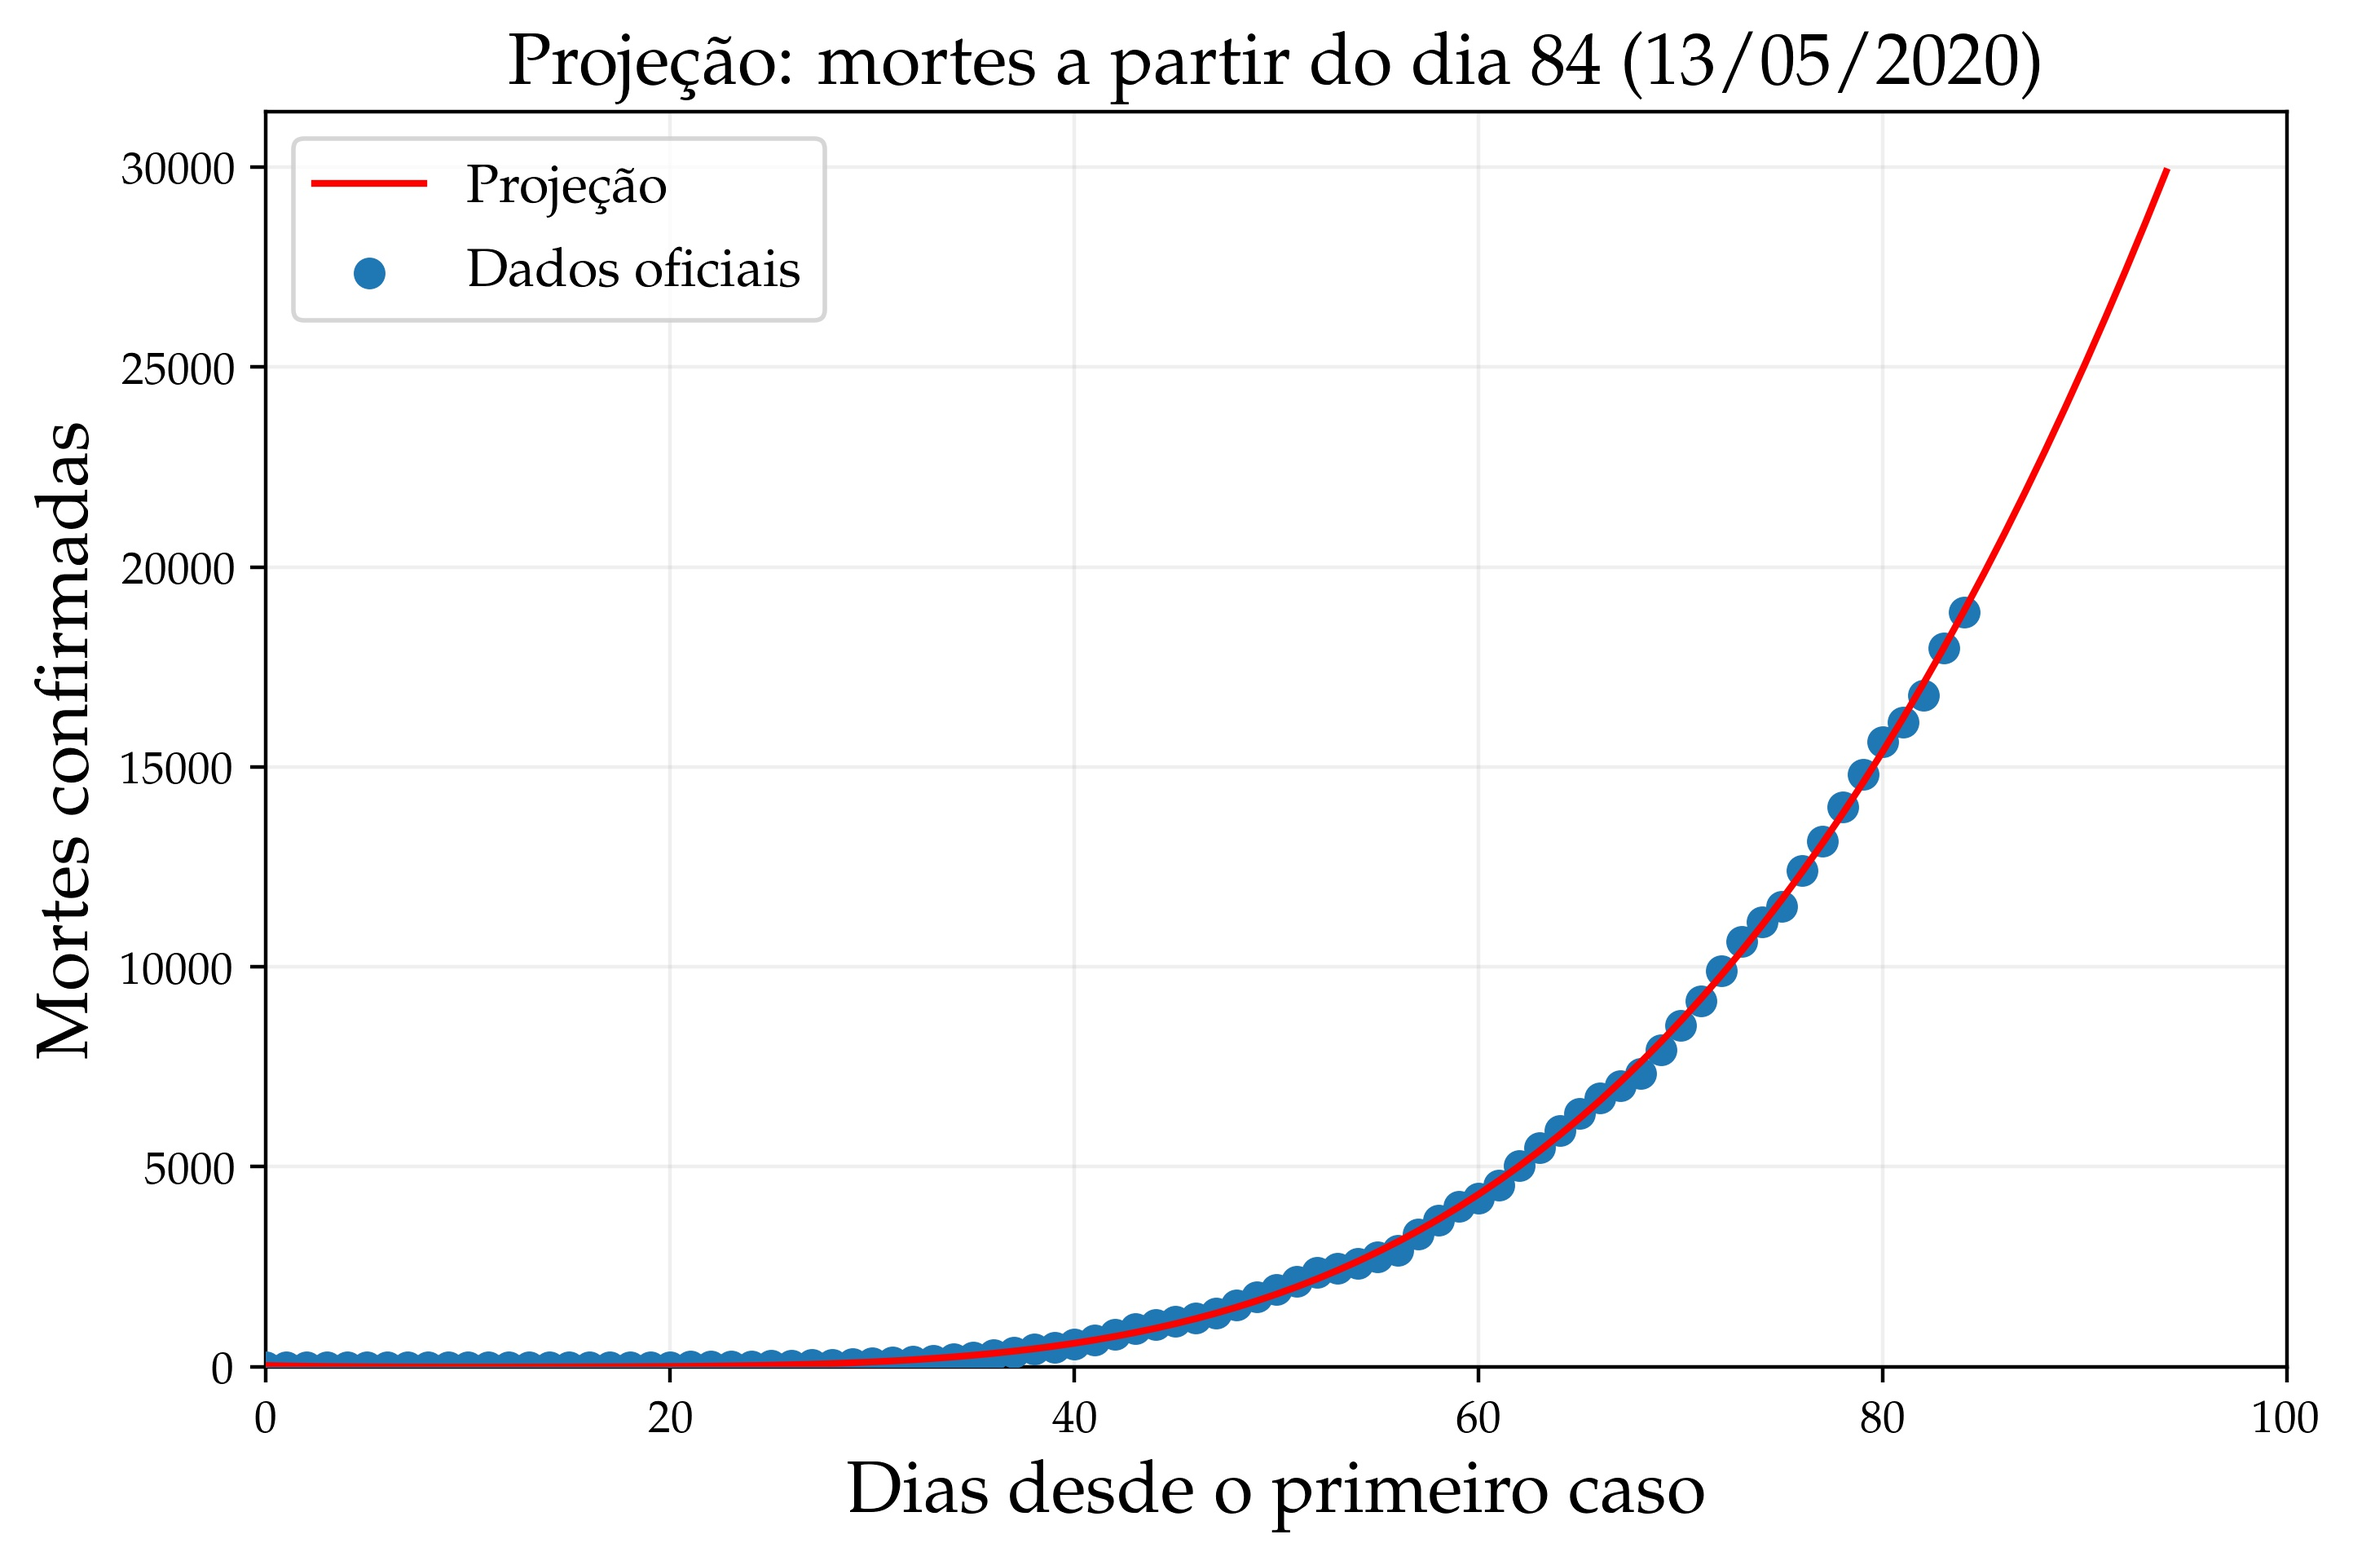
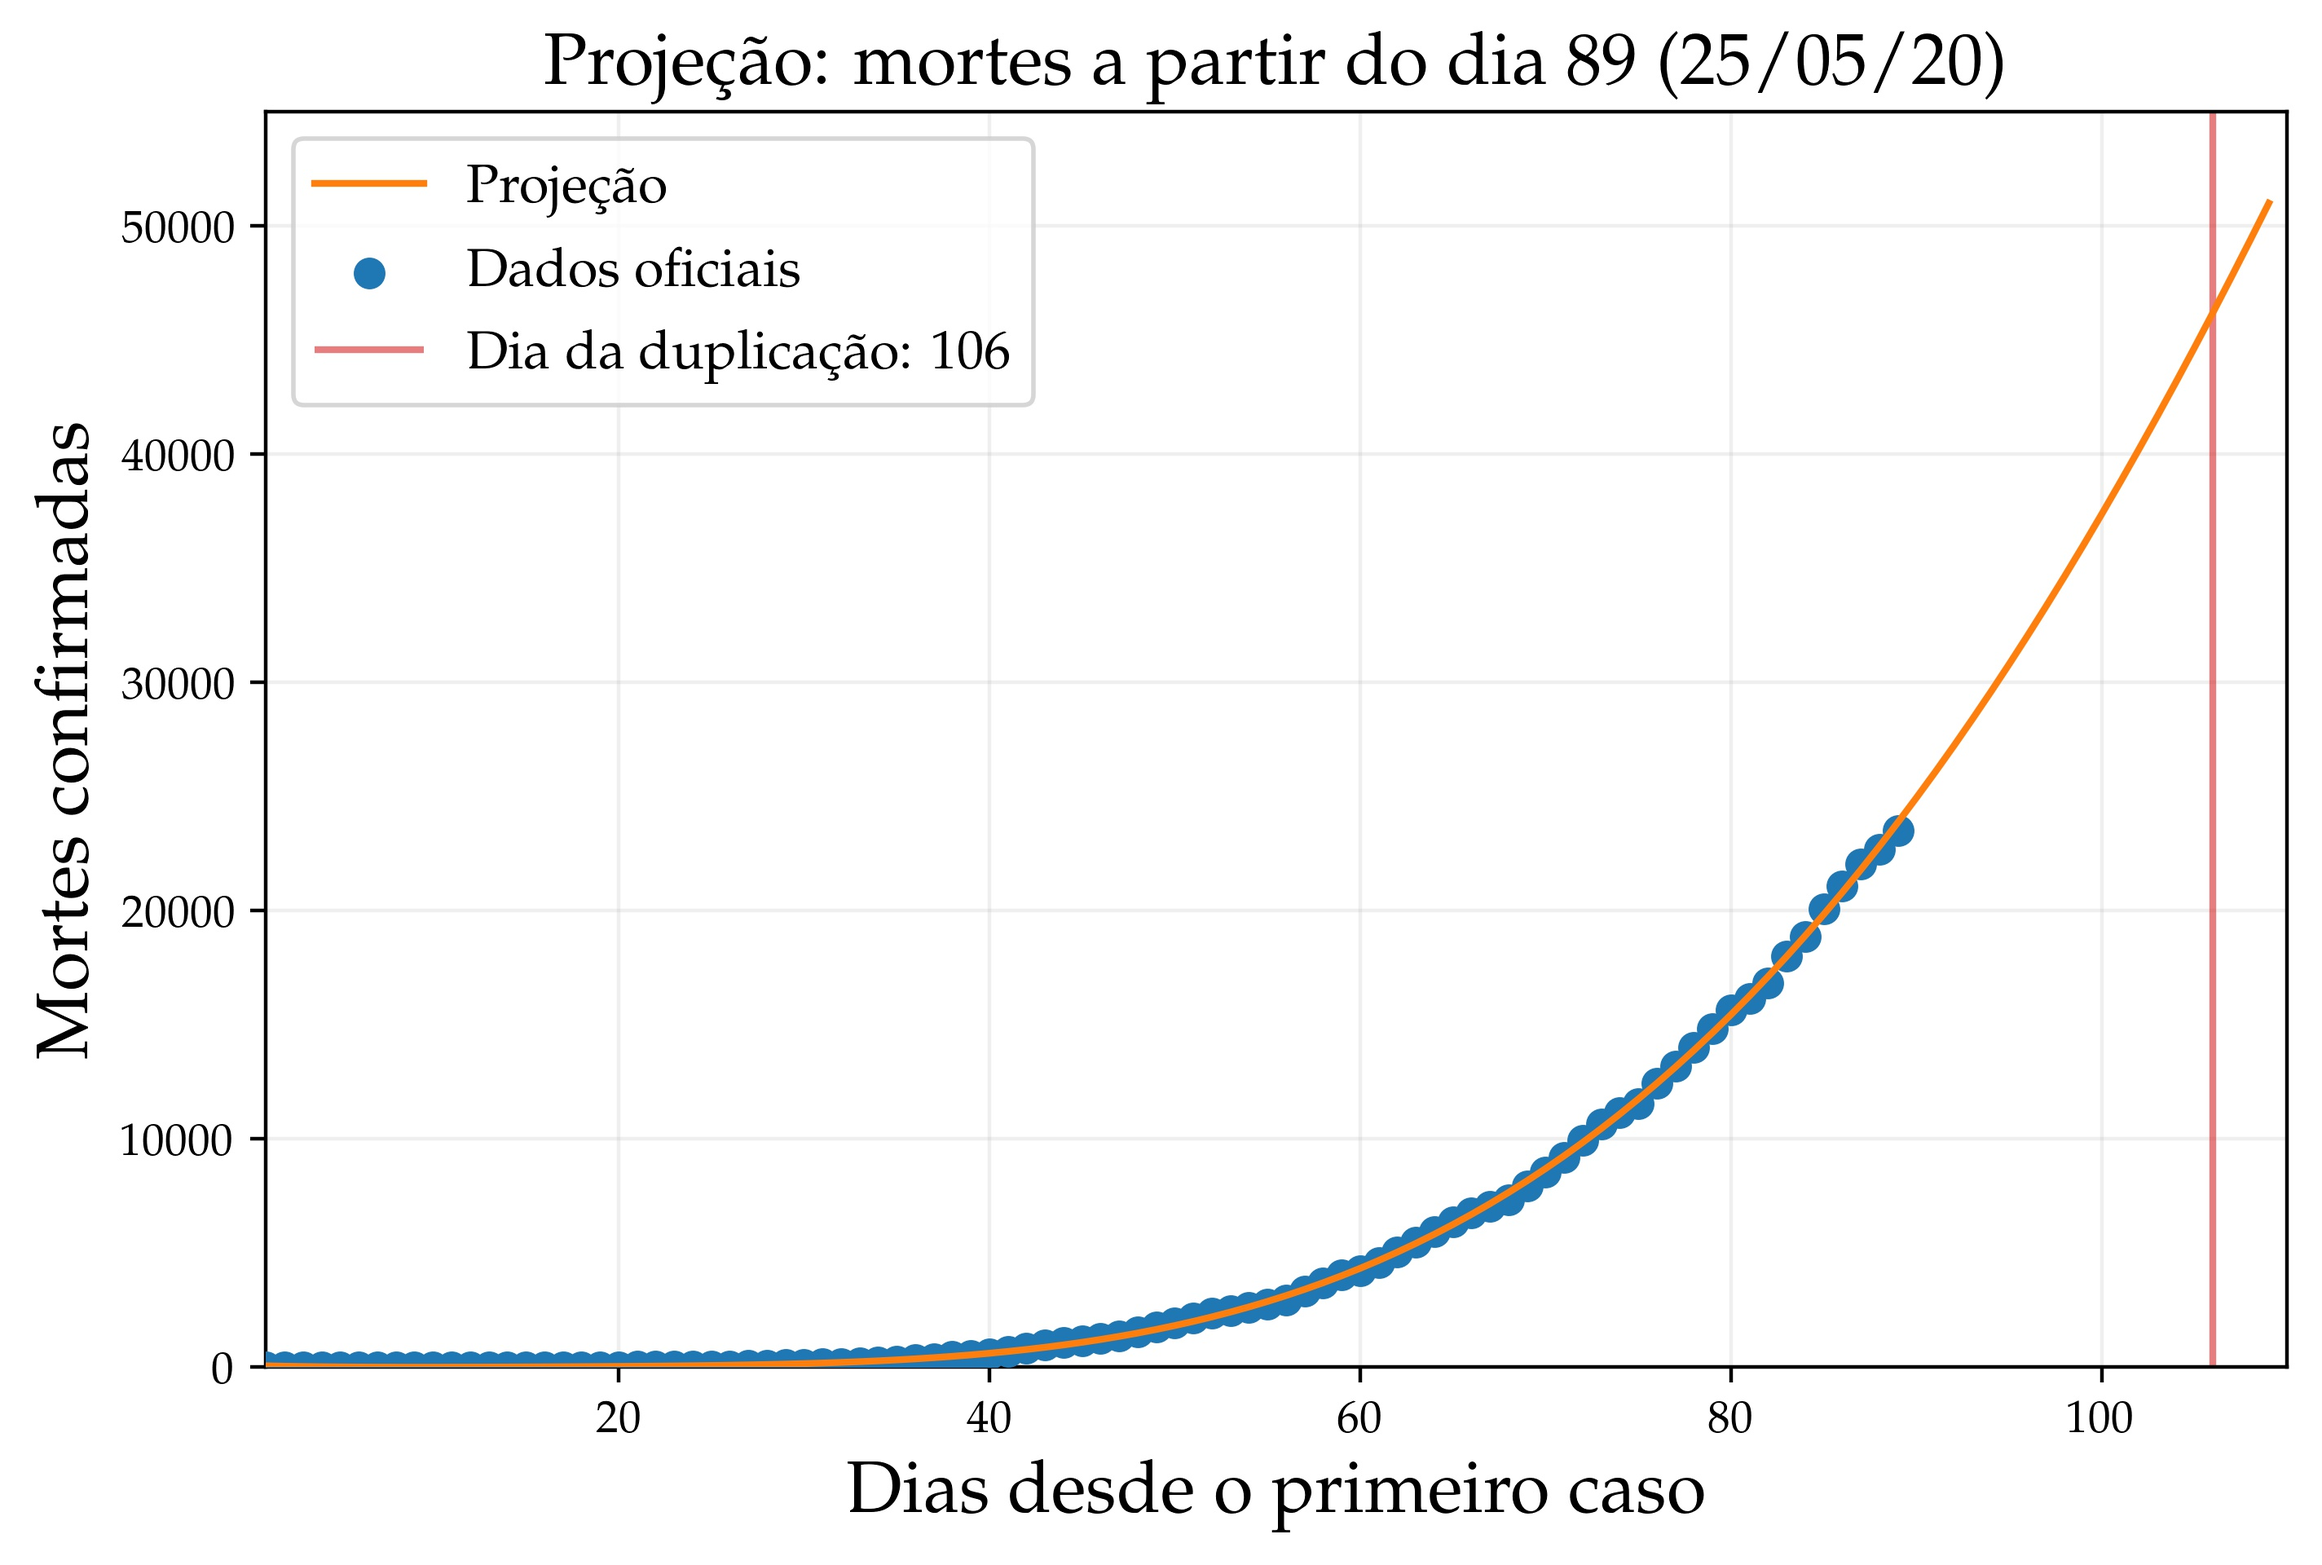
Add files via upload

diff --git a/polynomial_prediction_git.py b/polynomial_prediction_git.py
@@ -5,6 +5,7 @@ import pandas as pd
 from sklearn.linear_model import LinearRegression
 from sklearn.preprocessing import PolynomialFeatures
 from matplotlib import rc
+from datetime import datetime
 
 #TeX fonts
 # rc('font',**{'family':'sans-serif','sans-serif':['Helvetica']})
@@ -12,16 +13,16 @@ from matplotlib import rc
 rc('font',**{'family':'serif','serif':['Palatino']})
 rc('text', usetex=True)
 
-#COVID-19 BRAZIL
+#COVID-19 BRAZIL v1.1
 #by Daniel Marostica
 #github danielmarostica
 
-dias = 85
-to_predict = 10
-casos = ['10','casos']
-mortes = ['11','mortes']
-coluna = int(mortes[0])
-print('Este código faz previsão para mortes nos próximos 10 dias, usando dados de 85 dias.')
+dias = 90
+to_predict = 20
+casos = [11,'casos']
+mortes = [12,'mortes']
+coluna = mortes[0]
+print('Este código faz previsão para mortes nos próximos %i dias, usando dados de %i dias.'%(to_predict, dias))
 configurar = raw_input('Gostaria de configurar os números? (s/n) ')
 if configurar == 's':
     coluna = raw_input('Casos ou mortes? ')
@@ -31,21 +32,20 @@ else:
     pass
 
 if coluna == 'casos':
-    coluna = int(casos[0])
+    coluna = casos[0]
     coluna_str = casos[1]
 else:
-    coluna = int(mortes[0])
+    coluna = mortes[0]
     coluna_str = mortes[1]
 print('Lendo arquivo...')
 
-coluna = [coluna]
+coluna = [7, coluna]
 #----------------
 
 #altere o nome do arquivo baixado do site do ministério
-dataset = pd.read_excel('HIST_PAINEL_COVIDBR_20mai2020.xlsx', nrows=dias, usecols=coluna)
+dataset = pd.read_excel('HIST_PAINEL_COVIDBR_25mai2020.xlsx', nrows=dias, usecols=coluna)
 #extracts 2D array
-y = dataset.iloc[:, [0]].values
-
+y = dataset.iloc[:, [1]].values
 X = np.arange(0,dias)
 #converts to 2D array because fit_transform() requires it
 X = np.reshape(X,(len(X),1))
@@ -69,22 +69,44 @@ X_topredict = np.reshape(X_topredict,(len(X_topredict),1))
 
 #creates matrix with multiple powers of X_topredict
 X_topredict_poly = poly_reg.fit_transform(X_topredict)
+
 # applies trained lin_reg to predict X_topredict_poly
 predicted = lin_reg.predict(X_topredict_poly)
 
 print('Coeficientes do polinômio:')
 print lin_reg.coef_
 
+date = dataset.iloc[0:dias,[0]].values.tolist()
+date_new = ["" for i in range(dias)]
+for i in range(dias):
+    date_object = datetime.strptime(date[i][0], '%Y-%m-%d')
+    date_new[i] = date_object.strftime('%d/%m/%y')
+
+#encontrar dia da duplicação
+i=0
+while predicted[i] < 2*y[dias-1]:
+    VLINE = X_topredict[i]
+    DATE_DOUBLE = i
+    i += 1
+
+print('O número de %s dobrará no dia %s.'%(coluna_str,DATE_DOUBLE))
+
 #plot
 plt.figure(figsize=(8,5))
-plt.plot(X_topredict,predicted, color='red',zorder=5,label='Proje\c{c}\~{a}o')
-plt.scatter(X,y,zorder=5,label='Dados oficiais')
-plt.title('Proje\c{c}\~{a}o: %s a partir do dia %i (13/05/2020)'%(coluna_str, dias-1), fontsize=16)
-plt.xlim((0,dias+to_predict+5))
-plt.ylim(bottom=0)
+plt.plot(X_topredict,predicted, color='C1',zorder=5,label='Proje\c{c}\~{a}o')
+plt.scatter(X,y,zorder=5,label='Dados oficiais', color='C0')
+ylims = [0,55000]
+xlims = [1,dias+to_predict]
+plt.vlines(VLINE,ylims[0],ylims[1], color='C3', alpha=0.6, label='Dia da duplica\c{c}\~{a}o: %i'%DATE_DOUBLE)
+plt.title('Proje\c{c}\~{a}o: %s a partir do dia %i (%s)'%(coluna_str, dias-1,date_new[dias-1]), fontsize=16)
+plt.xlim(xlims)
+plt.ylim(ylims)
 plt.grid(zorder=10, alpha=0.2)
 plt.xlabel('Dias desde o primeiro caso', size=16)
 plt.ylabel('Mortes confirmadas', size=16)
 plt.tick_params(which='minor', axis='both', direction='in')
 plt.legend(loc='upper left', shadow=False, fontsize=12)
-plt.savefig('predict.jpg', dpi=400, bbox_inches='tight')
+plt.savefig('predict_covid.jpg', dpi=400, bbox_inches='tight')
+
+plt.show()
+plt.close()
